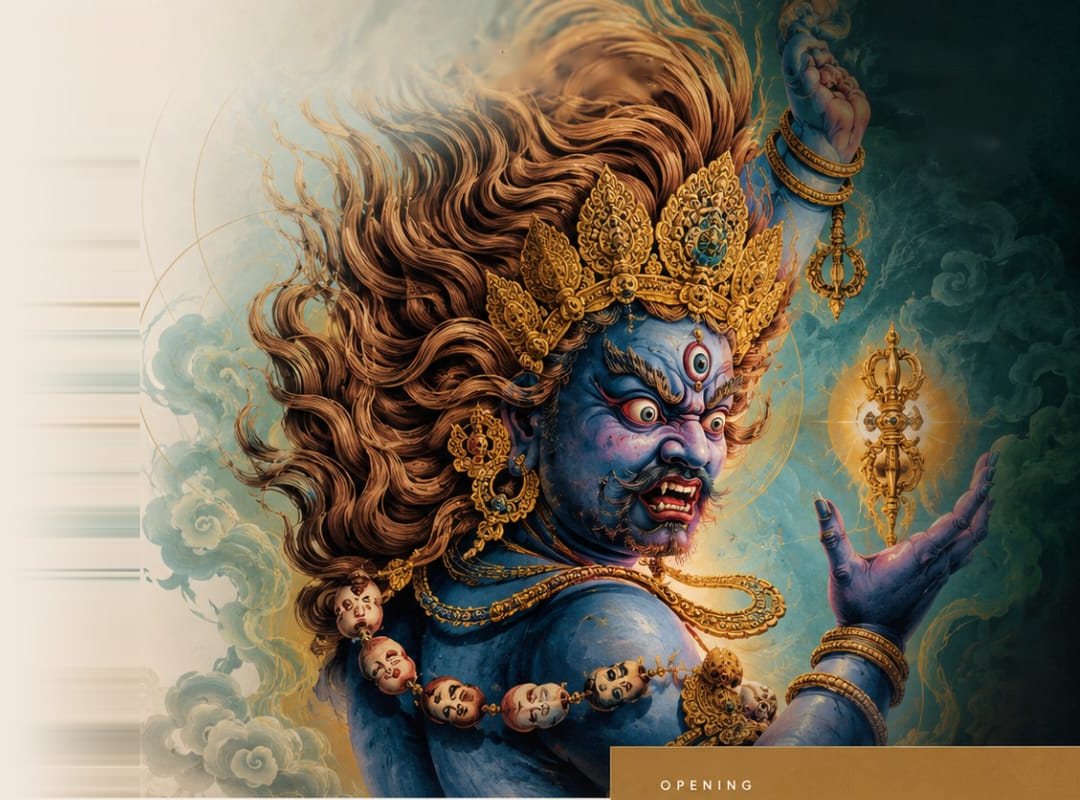
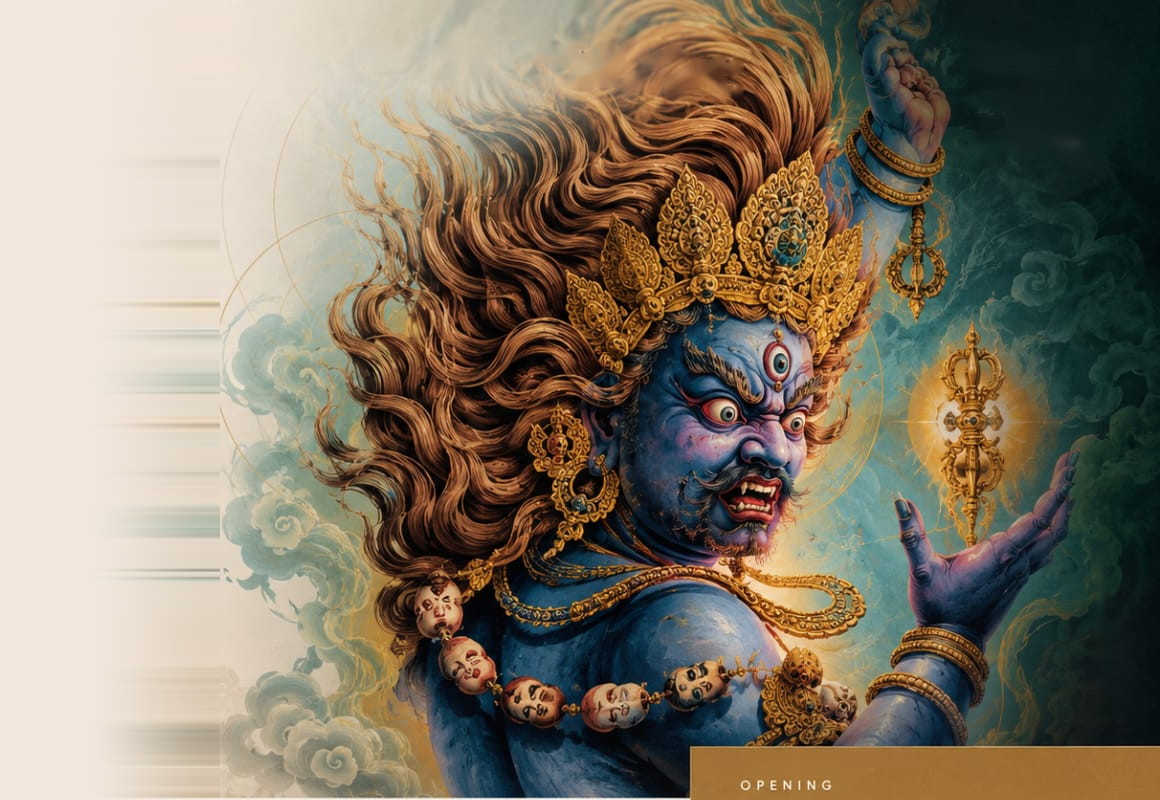
Fluid desktop scaling (no overlaps at laptop widths), mobile artwork taken from the mobile reference itself, subtitle break matched to the mockup

diff --git a/src/index.css b/src/index.css
@@ -257,6 +257,10 @@
   color: #c19a3f;
 }
 
+.sub-break {
+  display: none;
+}
+
 .hero-sub {
   font-family: 'Cormorant Garamond', Georgia, serif;
   font-weight: 500;
@@ -630,7 +634,7 @@
   }
 
   .site-header {
-    padding: 34px 54px 0 83px;
+    padding: min(34px, 2.125vw) min(54px, 3.375vw) 0 min(83px, 5.1875vw);
   }
 
   .site-header .nav-contact {
@@ -641,8 +645,8 @@
 
   .slider-ui {
     position: absolute;
-    top: 106px;
-    right: 12px;
+    top: min(106px, 6.625vw);
+    right: min(12px, 0.75vw);
     z-index: 4;
     display: flex;
     align-items: center;
@@ -689,40 +693,44 @@
     display: flex;
     flex-direction: column;
     justify-content: center;
-    max-width: 660px;
-    padding: 52px 30px 52px 110px;
+    max-width: min(660px, 41.25vw);
+    padding: min(52px, 3.25vw) min(30px, 1.875vw) min(52px, 3.25vw) min(110px, 6.875vw);
   }
 
   .hero-title {
-    margin-top: 20px;
+    margin-top: min(20px, 1.25vw);
     font-size: clamp(52px, 5vw, 80px);
     line-height: 0.97;
   }
 
   .hero-sub {
-    max-width: 520px;
-    margin-top: 10px;
-    font-size: 21px;
+    max-width: min(520px, 32.5vw);
+    margin-top: min(10px, 0.625vw);
+    font-size: min(21px, 1.3125vw);
     line-height: 1.45;
   }
 
   .hero-meta {
     display: flex;
-    margin-top: 22px;
+    margin-top: min(22px, 1.375vw);
   }
 
   .meta-item {
     display: flex;
     align-items: flex-start;
-    gap: 14px;
+    gap: min(14px, 0.875vw);
+  }
+
+  .meta-value {
+    font-size: min(15px, 0.9375vw);
   }
 
   .meta-item:first-child {
-    min-width: 222px;
+    min-width: min(222px, 13.875vw);
   }
 
   .meta-item:last-child .meta-value {
-    font-size: 18px;
+    font-size: min(18px, 1.09vw);
   }
 
   .meta-value {
@@ -730,20 +738,20 @@
   }
 
   .meta-item + .meta-item {
-    margin-left: 26px;
-    padding-left: 26px;
+    margin-left: min(26px, 1.625vw);
+    padding-left: min(26px, 1.625vw);
     border-left: 1px solid rgba(23, 21, 18, 0.18);
   }
 
   .hero-actions {
     display: flex;
     align-items: center;
-    gap: 34px;
-    margin-top: 24px;
+    gap: min(34px, 2.125vw);
+    margin-top: min(24px, 1.5vw);
   }
 
   .map-btn {
-    padding: 19px 33px;
+    padding: min(19px, 1.1875vw) min(33px, 2.0625vw);
   }
 
   .map-btn:hover {
@@ -773,8 +781,8 @@
     right: 0;
     bottom: auto;
     left: auto;
-    width: 1080px;
-    height: 800px;
+    width: min(1160px, 72.5vw);
+    height: min(800px, 50vw);
     max-width: none;
     object-fit: unset;
   }
@@ -799,41 +807,41 @@
     bottom: 0;
     left: 0;
     z-index: 1;
-    height: 110px;
+    height: min(110px, 6.875vw);
     background: linear-gradient(0deg, rgba(242, 232, 222, 0.85) 0%, rgba(242, 232, 222, 0.3) 45%, rgba(242, 232, 222, 0) 100%);
     content: '';
     pointer-events: none;
   }
 
   .art-rings .ring-1 {
-    top: 20px;
-    right: 378px;
-    width: 380px;
-    height: 380px;
+    top: min(20px, 1.25vw);
+    right: min(378px, 23.625vw);
+    width: min(380px, 23.75vw);
+    height: min(380px, 23.75vw);
   }
 
   .art-rings .ring-2 {
-    top: 88px;
-    right: 448px;
-    width: 240px;
-    height: 240px;
+    top: min(88px, 5.5vw);
+    right: min(448px, 28vw);
+    width: min(240px, 15vw);
+    height: min(240px, 15vw);
   }
 
   .hero-clouds {
     position: absolute;
-    bottom: 26px;
-    left: -30px;
+    bottom: min(26px, 1.625vw);
+    left: max(-30px, -1.875vw);
     z-index: 1;
     display: block;
-    width: 440px;
+    width: min(440px, 27.5vw);
     opacity: 0.5;
     pointer-events: none;
   }
 
   .slider-ui {
     position: absolute;
-    top: 106px;
-    right: 12px;
+    top: min(106px, 6.625vw);
+    right: min(12px, 0.75vw);
     z-index: 3;
     display: flex;
     align-items: center;
@@ -842,8 +850,8 @@
 
   .scroll-cue {
     position: absolute;
-    right: 16px;
-    bottom: 174px;
+    right: min(16px, 1vw);
+    bottom: min(174px, 10.875vw);
     z-index: 3;
     display: flex;
     align-items: center;
@@ -875,7 +883,7 @@
   .scroll-line {
     display: block;
     width: 1px;
-    height: 96px;
+    height: min(96px, 6vw);
     background: rgba(255, 255, 255, 0.5);
   }
 
@@ -888,46 +896,64 @@
   }
 
   .opening-arrow::before {
-    width: 54px;
+    width: min(54px, 3.375vw);
     height: 1px;
-    margin-right: 18px;
+    margin-right: min(18px, 1.125vw);
     background: rgba(255, 255, 255, 0.55);
     content: '';
+  }
+
+  .opening-date {
+    font-size: min(30px, 1.875vw);
   }
 
   .opening-block {
     position: absolute;
     right: 0;
-    bottom: 42px;
+    bottom: min(42px, 2.625vw);
     z-index: 3;
     display: flex;
     align-items: center;
     justify-content: space-between;
-    gap: 20px;
+    gap: min(20px, 1.25vw);
     width: min(470px, 36vw);
-    padding: 28px 38px;
+    padding: min(28px, 1.75vw) min(38px, 2.375vw);
     background: linear-gradient(100deg, #96682c, #a57137 55%, #98652f);
     color: #fff7e8;
     text-decoration: none;
   }
 
   .foot-line {
-    width: 84px;
+    width: min(84px, 5.25vw);
   }
 
   .hero-foot {
     position: absolute;
-    bottom: 48px;
-    left: 72px;
+    bottom: min(48px, 3vw);
+    left: min(72px, 4.5vw);
     z-index: 3;
     display: flex;
     align-items: center;
-    gap: 14px;
+    gap: min(14px, 0.875vw);
     color: #6d6250;
     font-size: 10px;
     font-weight: 500;
     letter-spacing: 0.3em;
     text-transform: uppercase;
+  }
+}
+
+/* Laptop widths between the two reference bands: keep the meta row
+   from squeezing the venue into extra lines. */
+@media (min-width: 1281px) and (max-width: 1449px) {
+  .meta-item:first-child {
+    min-width: 172px;
+  }
+
+  .meta-note {
+    font-size: 8px;
+    letter-spacing: 0.14em;
+    white-space: nowrap;
   }
 }
 
@@ -970,7 +996,7 @@
   }
 
   .hero-art img.art-img-desktop {
-    width: min(68.9vw, 1080px);
+    width: min(74.1vw, 1160px);
     height: auto;
     max-width: none;
   }
@@ -1071,7 +1097,7 @@
 @media (max-width: 900px) {
   .site-header {
     justify-content: space-between;
-    padding: 20px 14px;
+    padding: 14px 14px 20px;
   }
 
   .brand-mark {
@@ -1207,20 +1233,23 @@
     display: none;
   }
 
+  /* the reference crop already contains the gold rings */
+  .hero-art .art-rings {
+    display: none;
+  }
+
   .hero-art img.art-img-mobile {
     display: block;
-    top: 56px;
-    right: -17vw;
+    top: 0;
+    right: 0;
     bottom: auto;
     left: auto;
-    width: 62vw;
-    max-width: 280px;
+    width: 51.9vw;
+    max-width: 275px;
     height: auto;
     object-fit: unset;
-    -webkit-mask-image: linear-gradient(90deg, transparent 0, #000 80px), linear-gradient(180deg, transparent 0, #000 46px);
-    mask-image: linear-gradient(90deg, transparent 0, #000 80px), linear-gradient(180deg, transparent 0, #000 46px);
-    -webkit-mask-composite: source-in;
-    mask-composite: intersect;
+    -webkit-mask-image: linear-gradient(90deg, transparent 0, #000 60px);
+    mask-image: linear-gradient(90deg, transparent 0, #000 60px);
   }
 
   .art-rings .ring-1 {
@@ -1271,7 +1300,7 @@
 
   .hero-kicker {
     order: 1;
-    margin: 16px 22px 0;
+    margin: 8px 22px 0;
     font-size: 10px;
     letter-spacing: 0.3em;
   }
@@ -1292,9 +1321,13 @@
     order: 3;
     max-width: 262px;
     margin: 14px 22px 0;
-    font-size: 19.5px;
+    font-size: 17.5px;
     font-style: normal;
-    line-height: 1.45;
+    line-height: 27px;
+  }
+
+  .hero-sub .sub-break {
+    display: block;
   }
 
   .hero-actions {
@@ -1332,7 +1365,7 @@
     order: 6;
     align-self: center;
     gap: 10px;
-    margin-top: 20px;
+    margin-top: 32px;
     padding: 11px 16px;
     border: 1px solid rgba(138, 95, 22, 0.5);
     border-radius: 999px;
@@ -1381,7 +1414,7 @@
     display: grid;
     grid-template-columns: 45% 55%;
     margin: 8px 15px 0;
-    padding: 13px 18px;
+    padding: 20px 18px;
     border-radius: 18px;
     background: rgba(250, 243, 230, 0.94);
     box-shadow: 0 18px 40px rgba(60, 45, 15, 0.14);
@@ -1446,7 +1479,7 @@
     align-items: center;
     justify-content: flex-start;
     gap: 14px;
-    margin: 10px 22px 0;
+    margin: 16px 22px 0;
     padding: 16px 22px;
     border-radius: 16px;
     background: linear-gradient(110deg, #7c4a19, #8a551f 55%, #64370d);
@@ -1489,7 +1522,7 @@
     flex-direction: column;
     align-items: center;
     gap: 10px;
-    margin: 8px auto 8px;
+    margin: 18px auto 8px;
     color: #6d6250;
     font-size: 12.5px;
     font-weight: 500;

diff --git a/src/App.tsx b/src/App.tsx
@@ -193,8 +193,9 @@ export default function App() {
           </h1>
 
           <p className="hero-sub">
-            A retrospective exhibition of Samundra Man Singh Shrestha by
-            Bodhisattva International.
+            A retrospective exhibition of Samundra Man Singh Shrestha{' '}
+            <br className="sub-break" />
+            by Bodhisattva International.
           </p>
 
           <div className="hero-meta">
